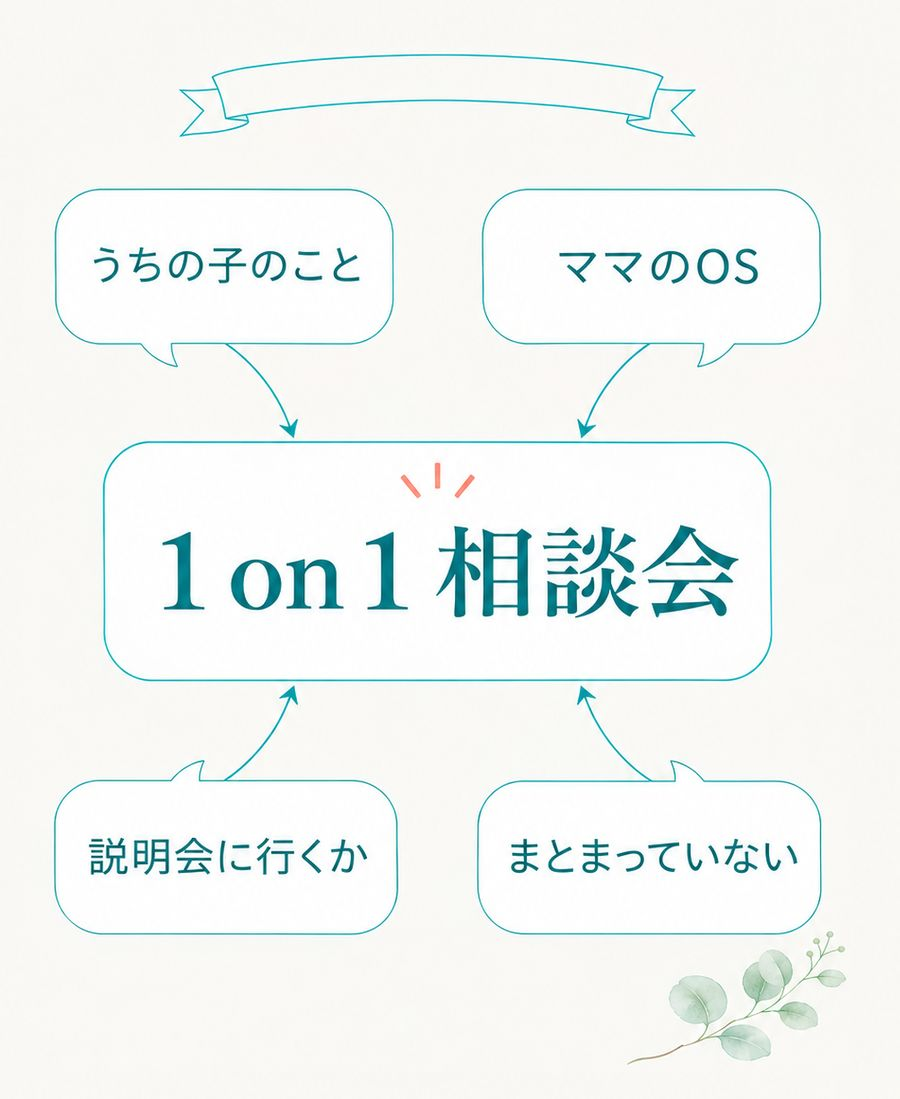
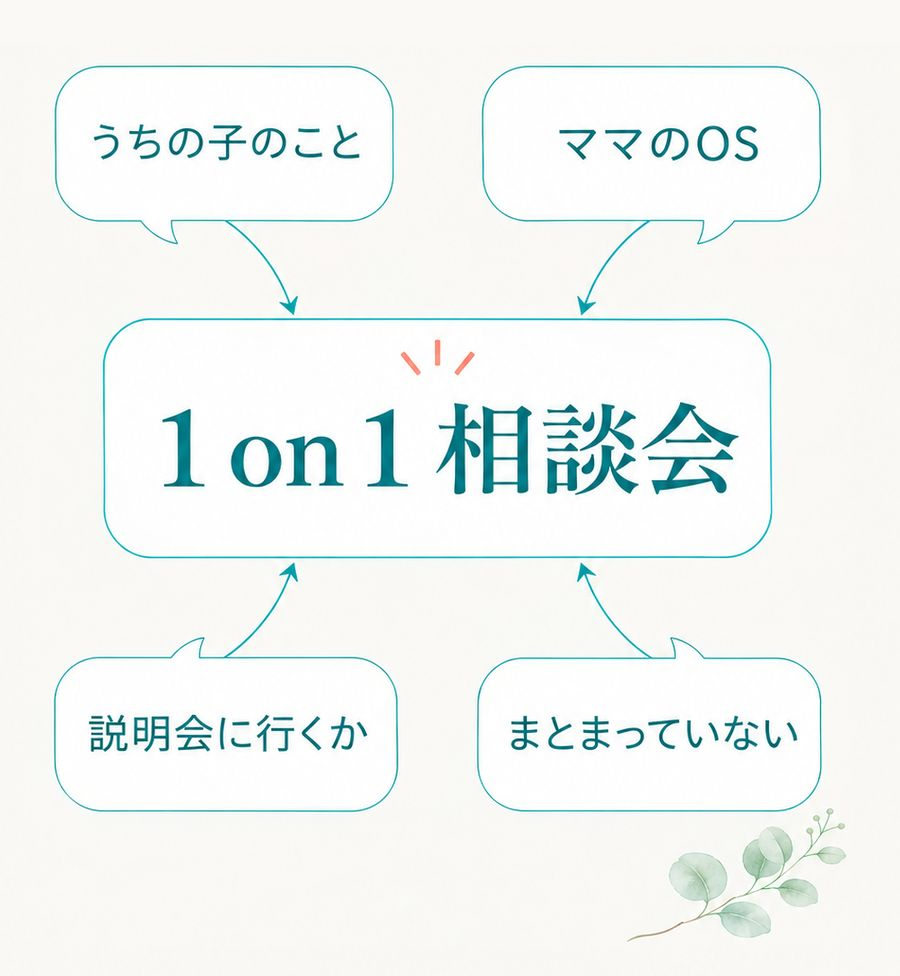
ピグマリオン恵美子1 on 1 相談会LPに、図解・吹き出し・プロフィールを入れる（叩き台）

diff --git a/pygmalion-emiko-1on1-consult/lp/index.html b/pygmalion-emiko-1on1-consult/lp/index.html
@@ -52,7 +52,7 @@
 .step{display:flex;align-items:center;gap:14px;background:#fff;border-radius:12px;padding:14px 16px;box-shadow:0 2px 8px rgba(0,0,0,.06)}
 .step-no{flex:none;font-family:'Montserrat',sans-serif;font-weight:700;font-size:12px;color:#fff;background:#00b4cc;border-radius:999px;padding:5px 10px}
 .step p{margin:0;font-size:15px;font-weight:700;line-height:1.6}
-.step-arrow{text-align:center;color:#00b4cc;font-size:18px;line-height:1;margin:6px 0}
+.step-arrow{text-align:center;color:#008b9c;font-size:18px;line-height:1;margin:6px 0}
 .qa{background:#fff;border-radius:14px;padding:18px 16px;margin-bottom:14px;box-shadow:0 2px 8px rgba(0,0,0,.05)}
 .qa .q,.qa .a{display:flex;gap:10px;align-items:flex-start;line-height:1.75}
 .qa .q{font-weight:700;color:#008b9c;font-size:15.5px;padding-bottom:12px;border-bottom:1px solid #eef3f4;margin-bottom:12px}
@@ -80,9 +80,10 @@
 .fv-fact .v{font-family:'Montserrat','Noto Sans JP',sans-serif;font-weight:700;font-size:20px;line-height:1.2;color:#b8892b}
 .fv-fact .v small{font-size:12px}
 .fv-fact .k{font-size:11.5px;line-height:1.5;color:#2f5f66;font-weight:700;margin-top:2px}
-.wall-badge{display:inline-block;background:#00b4cc;color:#fff;font-size:12px;font-weight:700;border-radius:999px;padding:2px 10px;margin-right:8px;vertical-align:3px}
+.wall-badge{display:inline-block;background:#008b9c;color:#fff;font-size:13px;font-weight:700;border-radius:999px;padding:3px 11px;margin-right:8px;line-height:1.5;vertical-align:middle;position:relative;top:-2px}
 .section-title,.mini-heading,.cta-copy,.bridge,.fv-name,.bubble{text-wrap:balance}
 .cta-copy{font-size:15px}
+.cta-btn{padding:14px 26px;font-size:17px;line-height:1.4}
 @media(max-width:767px){.section-title{font-size:23px}.fv-name{font-size:32px}}
 @media(min-width:768px){br.sp{display:none}}
 
@@ -123,7 +124,7 @@
     <p>そうやって慎重になるのは、<br>子育てに真剣だからこそですよね。<br>適当に考えていたら、迷うことすらありません。</p>
     <p>失敗したくない。<br>大事な子どものことだからこそ、<br>中途半端な気持ちで進めたくない。</p>
     <p>その慎重さ自体は、<br>決して悪いことじゃありません。</p>
-    <figure class="zu"><picture><source srcset="images/zu01_mayoi.webp" type="image/webp"><img src="images/zu01_mayoi.jpg" alt="情報を集めるほど、何が正しいのか分からなくなり、手が止まる" width="743" height="962" decoding="async"></picture></figure>
+    <figure class="zu"><picture><source srcset="images/zu01_mayoi.webp" type="image/webp"><img src="images/zu01_mayoi.jpg" alt="情報を集めるほど、何が正しいのか分からなくなり、手が止まる" width="743" height="851" decoding="async"></picture></figure>
     <h3 class="mini-heading">最後の一歩で迷うのは、気軽に相談できる相手がいないからです</h3>
     <p>ただ、なぜこんなに頑張っているのに、<br>最後の一歩で迷ってしまうのでしょう。</p>
     <div class="key-box"><p>ここが今日一番お伝えしたいことなのですが、<br>あなたが迷っているのは、<br>判断力がないからでも、<br>決断できない人だからでもないんです。<br>聞きたいことをそのまま聞ける相手がいないまま、<br>大事なことを決めようとしている。<br>だから、止まってしまうんですよね。</p></div>
@@ -153,7 +154,7 @@
     <p>そうやって聞きたいことが整理されると、<br>「説明会に行ったら、まずこのことを聞いてみよう」<br>というふうに、頭の中がクリアになります。</p>
     <p>自分の中で「まずこれを聞こう」が見えているだけでも、<br>受け取り方は大きく変わります。</p>
     <p>そうすると、<br>気持ちの余裕も、全然違ってきますよね。</p>
-    <figure class="zu"><picture><source srcset="images/zu02_seiri.webp" type="image/webp"><img src="images/zu02_seiri.jpg" alt="もやもやを話してみると、整理される" width="776" height="1059" decoding="async"></picture></figure>
+    <figure class="zu"><picture><source srcset="images/zu02_seiri.webp" type="image/webp"><img src="images/zu02_seiri.jpg" alt="もやもやを話してみると、整理される" width="776" height="954" decoding="async"></picture></figure>
     <h3 class="mini-heading">子どものことだけじゃない。「私の考え方、これでいいのかな」も聞いていい</h3>
     <p>そして実は、整理したくなるのって、<br>子どものことだけじゃないんです。</p>
     <p>私が「ママのOSが大事」とお伝えしているときに、<br>「私の考え方は、これでいいのだろうか」と、<br>ふと自信がなくなる方もいらっしゃいます。</p>
@@ -235,7 +236,7 @@
     <p><span class="marker">私との30分は、本当に何でも相談していい場にしています。</span><br>例えば、こんなことを相談できます。</p>
     <ul class="consult-list"><li>ライブで「ママのOS」の話を聞いて、自分の考え方に自信がなくなってきた</li><li>本当に、うちの子にこういう環境が必要なのか</li><li>個別説明会に行くかどうか、まだ迷っている</li><li>何を聞けばいいか、自分でもまとまっていない</li></ul>
     <p>こういう、まだ言葉になりきっていないもやもやを、そのまま持ってきて大丈夫です。<br>何を話すかは、その場で一緒に整理していきましょう。</p>
-    <figure class="zu"><picture><source srcset="images/zu05_soudan.webp" type="image/webp"><img src="images/zu05_soudan.jpg" alt="うちの子のこと、ママのOS、説明会に行くか、まとまっていないことを、1 on 1 相談会に持ってきていい" width="900" height="1099" decoding="async"></picture></figure>
+    <figure class="zu"><picture><source srcset="images/zu05_soudan.webp" type="image/webp"><img src="images/zu05_soudan.jpg" alt="うちの子のこと、ママのOS、説明会に行くか、まとまっていないことを、1 on 1 相談会に持ってきていい" width="900" height="976" decoding="async"></picture></figure>
     <h3 class="mini-heading">遠慮しなくていいし、まとまっていなくていい。ひとりで決めなくていい</h3>
     <p>「こんなこと聞いていいのかな」と、遠慮しなくていいんです。<br>私は個別説明会を主宰していますが、だからといって、この相談会で何かを決めなければいけないわけではありません。<br>30分話してみたうえで、説明会に進むかどうかも含めて、あなた自身が納得して決めて大丈夫です。</p>
     <p>そして、聞きたいことがきれいにまとまっていなくても大丈夫です。<br>まとまっていないからこそ、一緒に話しながら整理していくための時間なんですよね。</p>
